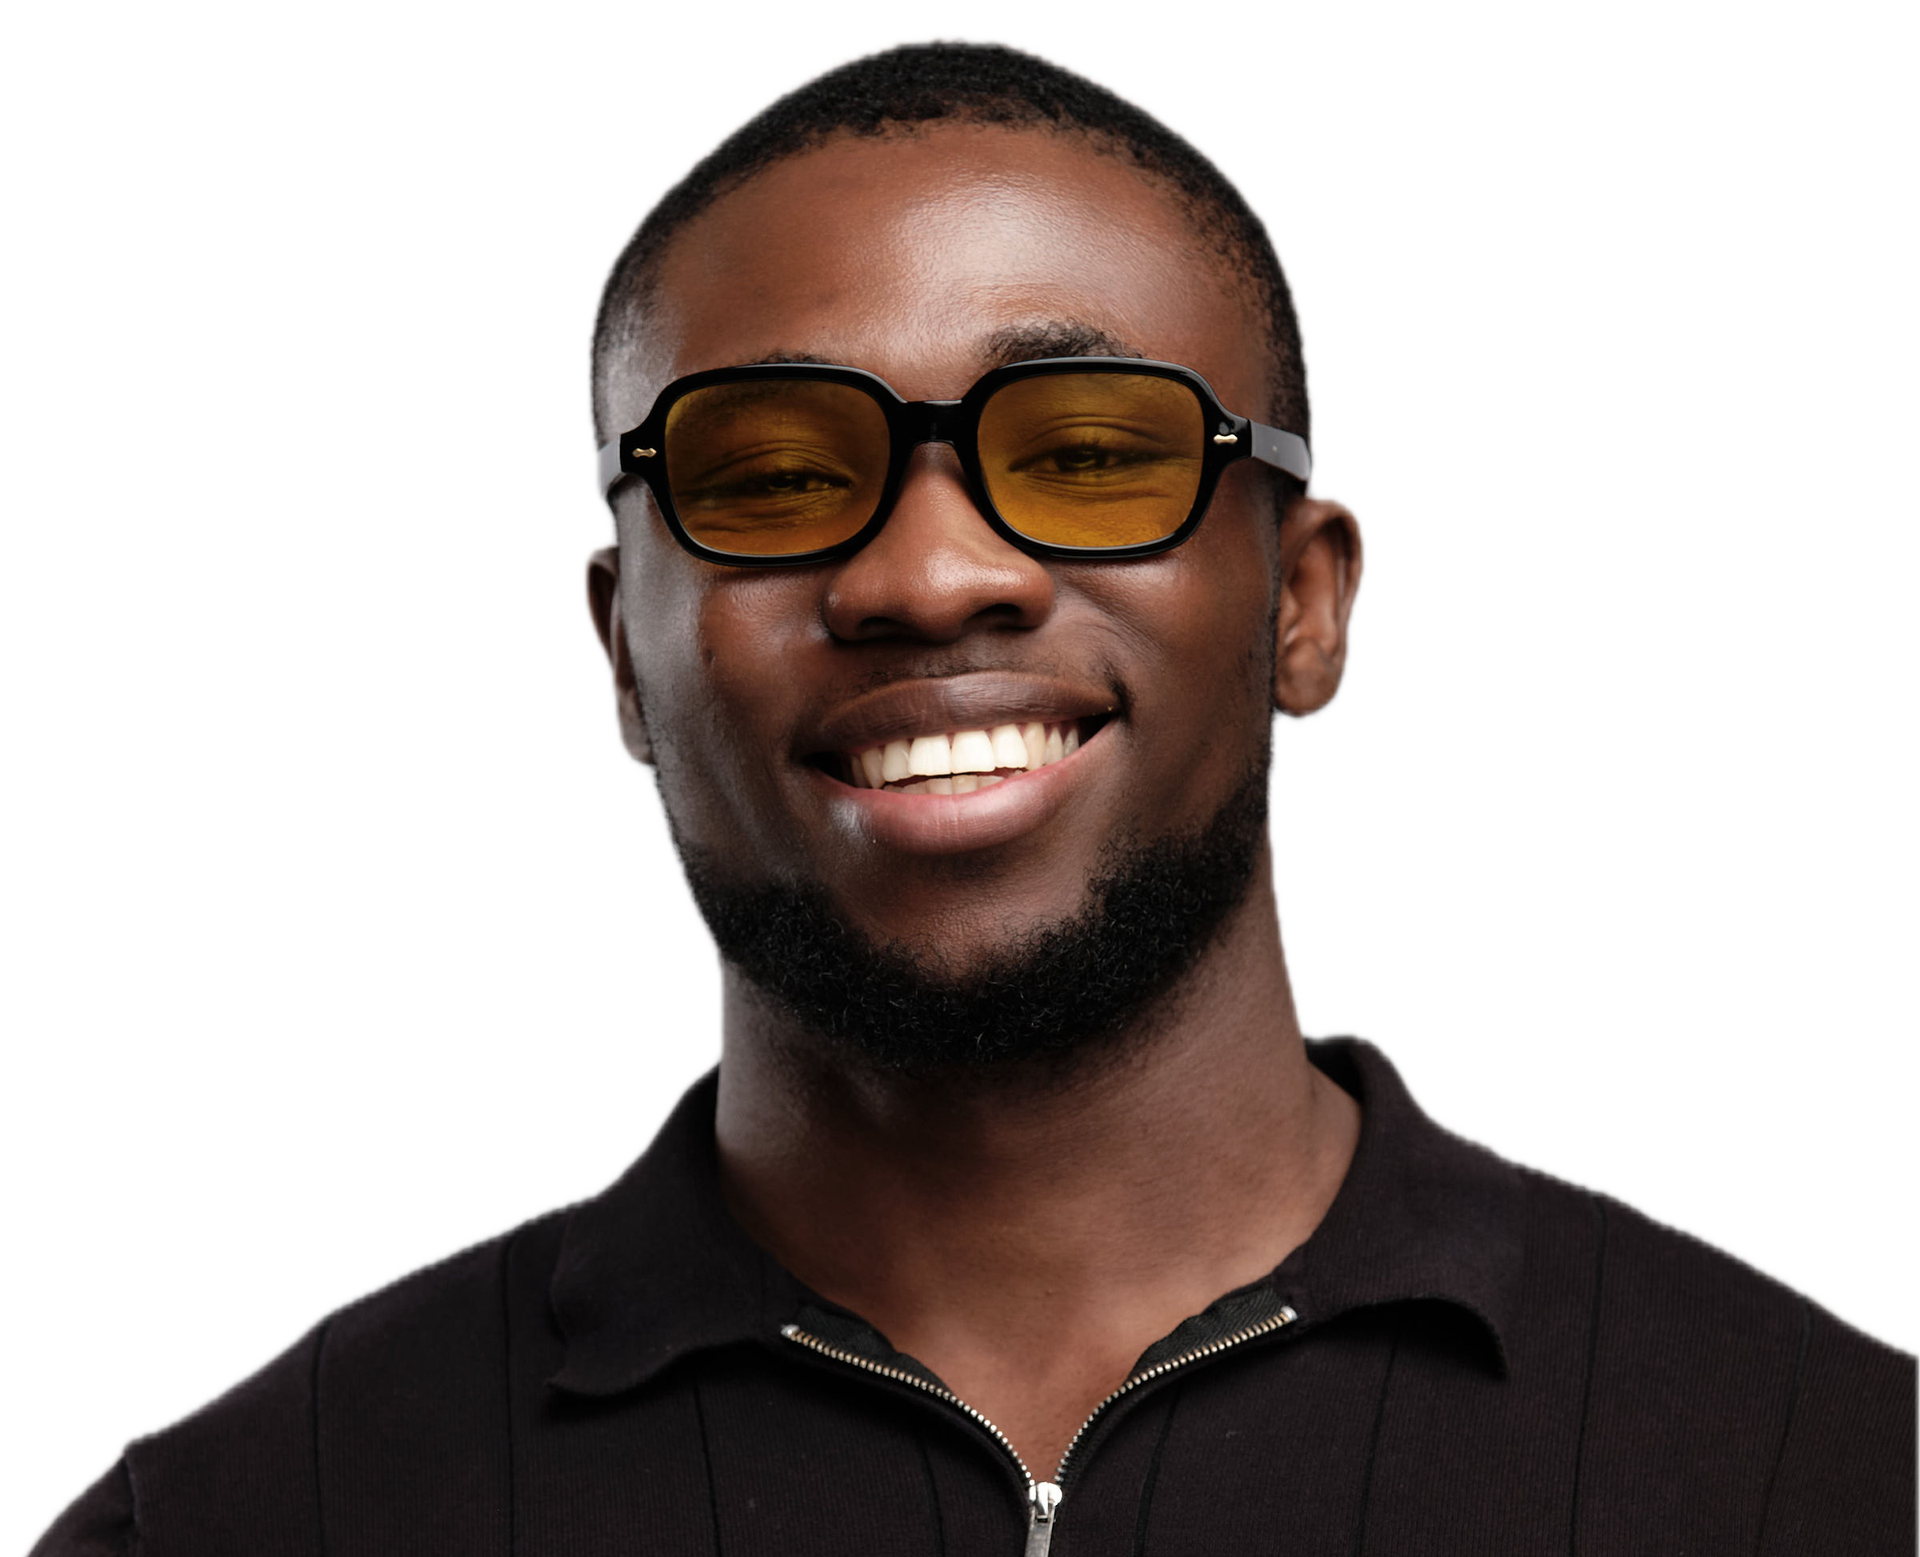
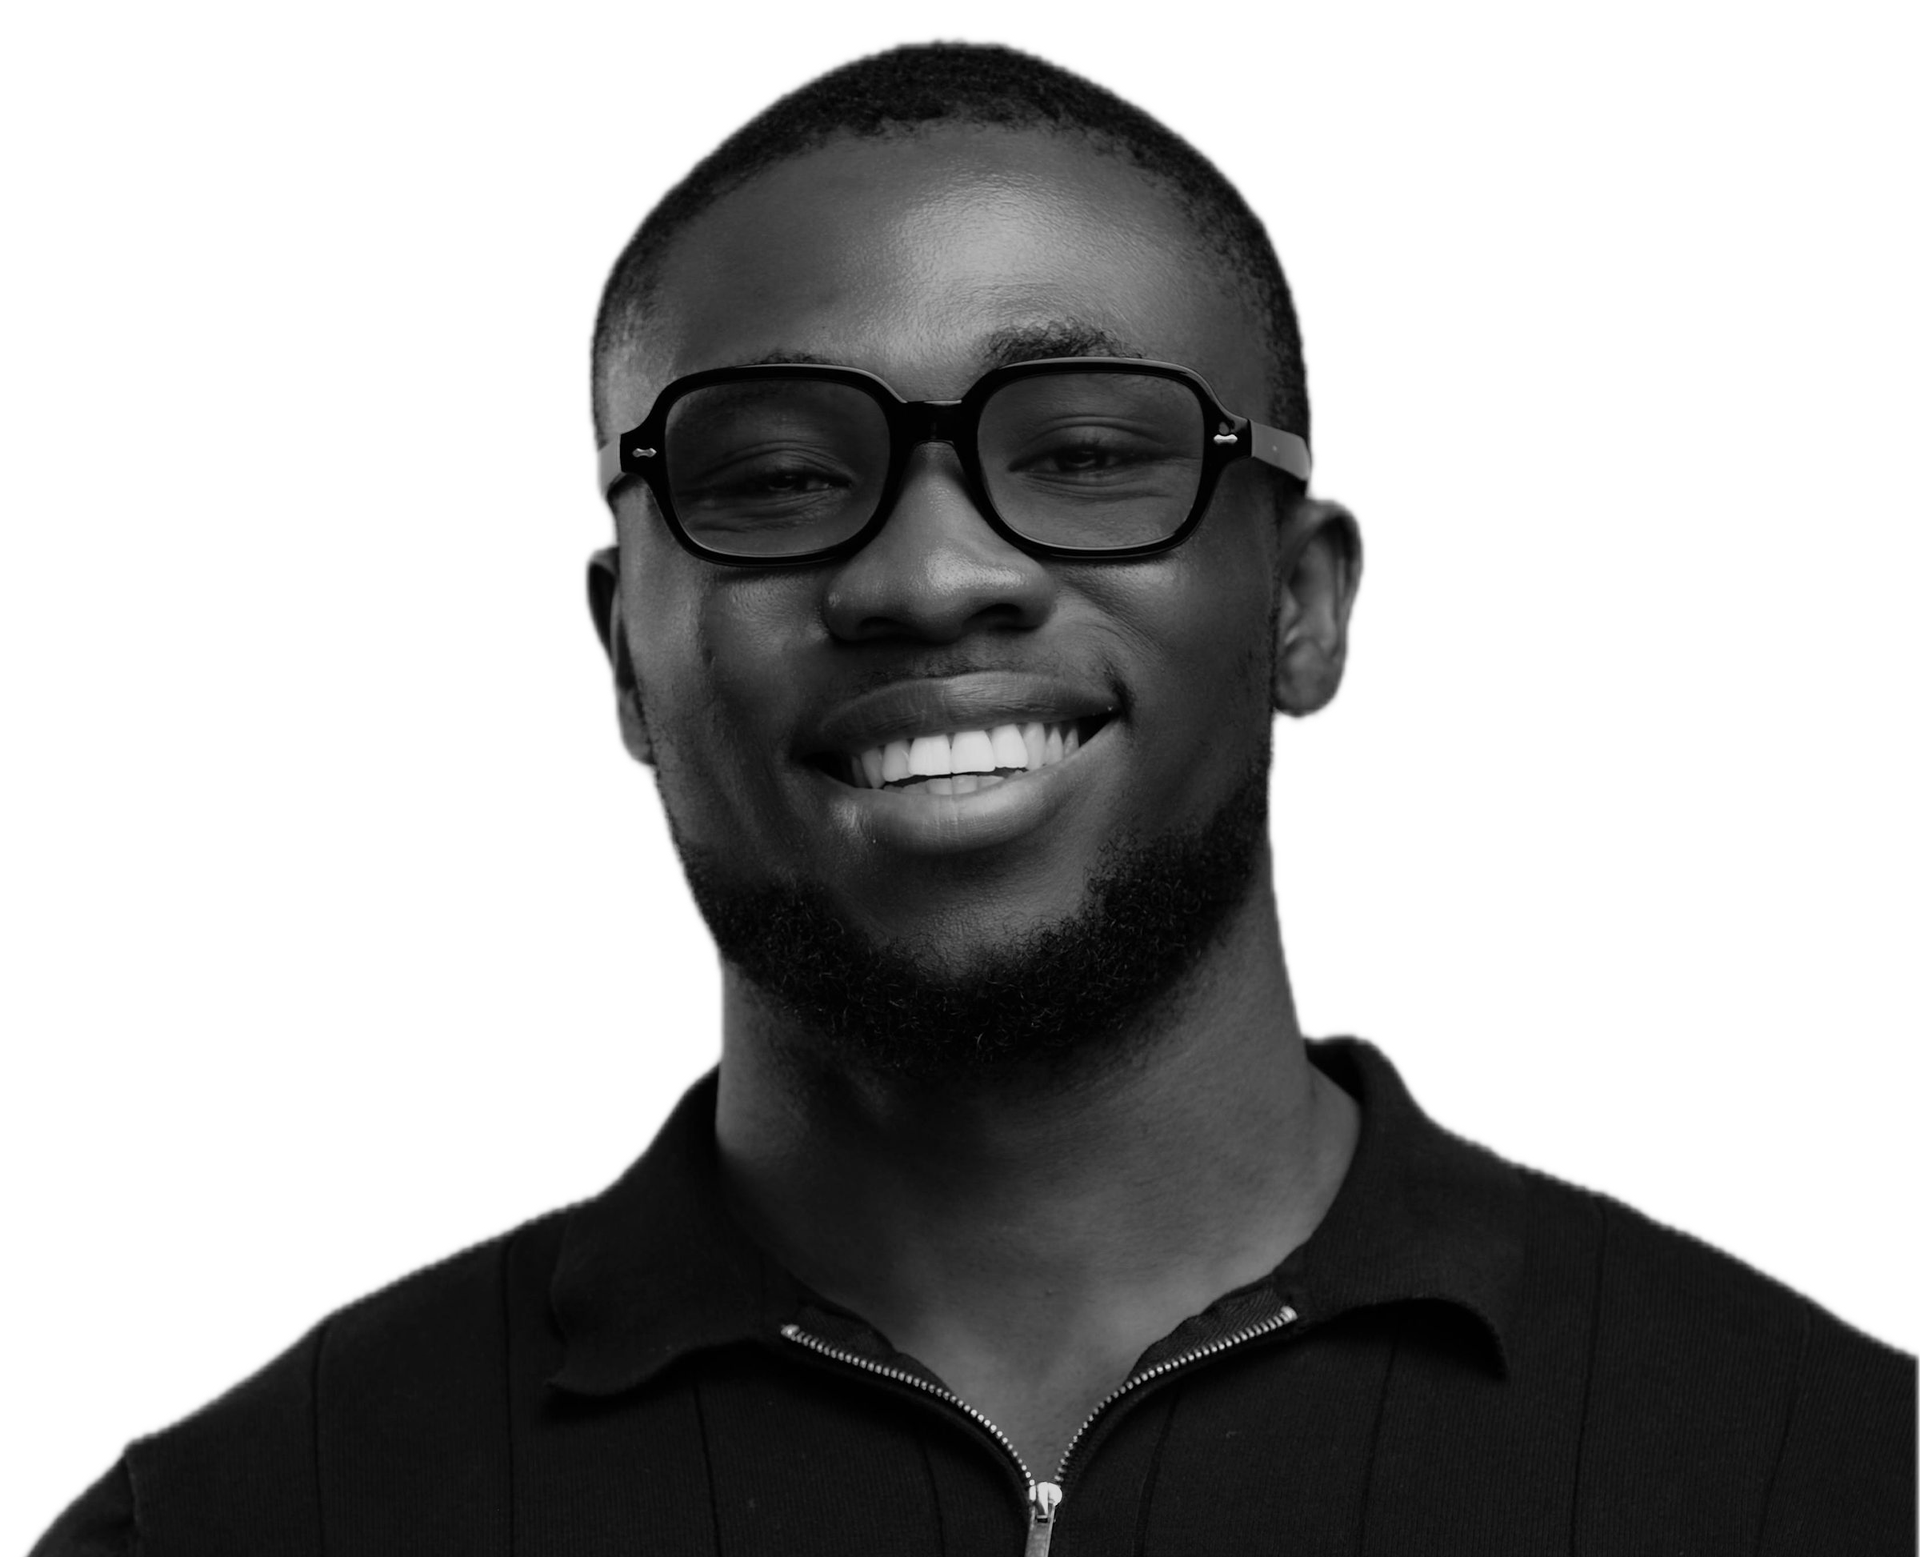
cleanup

Changed region(s): [[0.3125, 0.0617, 0.7188, 0.6474], [0.4375, 0.5549, 0.7188, 1.0], [0.375, 0.6782, 0.4062, 0.7399]]

diff --git a/src/Loader.jsx b/src/Loader.jsx
@@ -3,6 +3,7 @@ import gsap from "gsap";
 import { CustomEase } from "gsap/CustomEase";
 import { useGSAP } from "@gsap/react";
 import headerImg from "./assets/headerImg.svg";
+// Background removed; grayscale + 85% brightness baked in
 import headerImgCutout from "./assets/headerImgCutout.png";
 
 gsap.registerPlugin(useGSAP, CustomEase);
@@ -13,6 +14,14 @@ CustomEase.create(
   "M0,0 C0.2,0.03 0.38,0.12 0.46,0.3 C0.5,0.42 0.5,0.7 0.56,0.8 C0.66,0.93 0.8,0.98 1,1",
 );
 
+// Width of the full-size frame when it first appears (px)
+const FULLSCREEN_START_W = 176;
+
+const backdrop = "bg-[linear-gradient(#aaa,#b4b4b4_40%)]";
+const nameColumn =
+  "flex h-29.75 flex-col justify-between font-['DM-Serif'] text-[38px] leading-none text-white";
+const subText = "sub pb-1 font-['Geist'] text-lg/none font-medium text-[#555]";
+
 function Loader({ onComplete }) {
   const container = useRef(null);
 
@@ -22,6 +31,7 @@ function Loader({ onComplete }) {
 
       gsap
         .timeline({ onComplete })
+        // Intro
         .from(
           ".name",
           {
@@ -32,47 +42,27 @@ function Loader({ onComplete }) {
           },
           0.06,
         )
-        .from(
-          ".sub",
-          { yPercent: 100, duration: 0.37, ease: "power2.out" },
-          0.165,
-        )
+        .from(".sub", { yPercent: 100, duration: 0.37, ease: "power2.out" }, 0.165)
         .from(
           ".line",
-          {
-            scaleX: 0,
-            transformOrigin: "left",
-            duration: 0.8,
-            ease: "power3.out",
-          },
+          { scaleX: 0, transformOrigin: "left", duration: 0.8, ease: "power3.out" },
           0.1,
         )
         .fromTo(
           ".photo",
           { clipPath: "inset(50% 50% 50% 50%)" },
-          {
-            clipPath: "inset(0% 0% 0% 0%)",
-            duration: 0.75,
-            ease: "power3.out",
-          },
+          { clipPath: "inset(0% 0% 0% 0%)", duration: 0.75, ease: "power3.out" },
           0.09,
         )
-        .from(
-          ".photo img",
-          { scale: 0.5, duration: 0.3, ease: "power2.out" },
-          0.09,
-        )
+        .from(".photo img", { scale: 0.5, duration: 0.3, ease: "power2.out" }, 0.09)
         .from(".logo", { scale: 0, duration: 0.5, ease: "sine.out" }, 0.12)
-        .from(
-          ".counter",
-          { x: 100, opacity: 0, duration: 0.3, ease: "power3.out" },
-          0.15,
-        )
+        .from(".counter", { x: 100, opacity: 0, duration: 0.3, ease: "power3.out" }, 0.15)
+        // Full-size photo grows over everything
         .from(".fullscreen", { opacity: 0, duration: 0.11 }, 0.88)
         .from(
           ".fullscreen",
           {
-            scale: (_, el) => 176 / el.offsetWidth,
+            scale: (_, el) => FULLSCREEN_START_W / el.offsetWidth,
             y: -9,
             duration: 0.77,
             ease: "jump",
@@ -80,47 +70,33 @@ function Loader({ onComplete }) {
           0.88,
         )
         .from(".backdrop", { opacity: 0, duration: 0.35 }, 1.25)
-        .to(
-          ".logo",
-          { left: "4.4vw", xPercent: 0, duration: 0.65, ease: "jump" },
-          1.36,
-        );
+        // Logo moves to the corner
+        .to(".logo", { left: "4.4vw", xPercent: 0, duration: 0.65, ease: "jump" }, 1.36);
     },
     { scope: container },
   );
 
   return (
-    <div
-      ref={container}
-      className="fixed inset-0 z-50 overflow-hidden bg-black"
-    >
+    <div ref={container} className="fixed inset-0 z-50 overflow-hidden bg-black">
       <div className="line absolute top-[calc(50%-9px)] h-px w-full bg-[repeating-linear-gradient(to_right,#161616_0_4px,transparent_4px_5px)]" />
 
       <div className="absolute inset-0 grid -translate-y-[9px] grid-cols-[1fr_auto_1fr] items-center max-sm:scale-[0.55]">
-        <div className="flex h-29.75 flex-col items-end justify-between font-['DM-Serif'] text-[38px] leading-none text-white">
+        <div className={`${nameColumn} items-end`}>
           <div className="overflow-hidden pt-1.5">
             <p className="name">EBUKA</p>
           </div>
           <div className="-mb-1.75 overflow-hidden">
-            <p className="sub pb-1 font-['Geist'] text-lg/none font-medium text-[#555]">
-              Nihil Sine Deo
-            </p>
+            <p className={subText}>Nihil Sine Deo</p>
           </div>
         </div>
 
         <div className="photo mx-4.5 h-29.75 w-36.75 overflow-hidden">
-          <img
-            src={headerImg}
-            alt=""
-            className="h-full w-full object-cover object-[50%_17%]"
-          />
+          <img src={headerImg} alt="" className="h-full w-full object-cover object-[50%_17%]" />
         </div>
 
-        <div className="flex h-29.75 flex-col justify-between font-['DM-Serif'] text-[38px] leading-none text-white">
+        <div className={nameColumn}>
           <div className="mt-6.5 overflow-hidden">
-            <p className="sub pb-1 font-['Geist'] text-lg/none font-medium text-[#555]">
-              Senior Digital Marketer
-            </p>
+            <p className={subText}>Senior Digital Marketer</p>
           </div>
           <div className="-mb-1.5 overflow-hidden pt-1.5">
             <p className="name">CHIDUBE</p>
@@ -132,23 +108,21 @@ function Loader({ onComplete }) {
         0%
       </p>
 
-      <div className="backdrop absolute inset-0 bg-[linear-gradient(#aaa,#b4b4b4_40%)]" />
+      <div className={`backdrop absolute inset-0 ${backdrop}`} />
 
       <div className="absolute inset-0 flex items-center justify-center">
-        <div className="fullscreen aspect-176/143 w-[min(100vw,calc(100vh*176/143))] shrink-0 overflow-hidden bg-[linear-gradient(#aaa,#b4b4b4_40%)]">
+        <div
+          className={`fullscreen aspect-176/143 w-[min(100vw,calc(100vh*176/143))] shrink-0 overflow-hidden will-change-transform ${backdrop}`}
+        >
           <img
             src={headerImgCutout}
             alt=""
-            className="h-full w-full origin-top translate-y-15 scale-110 object-cover brightness-[.85] grayscale"
+            className="h-full w-full origin-top translate-y-15 scale-110 object-cover"
           />
         </div>
       </div>
 
-      <img
-        src="/logo.svg"
-        alt="Logo"
-        className="logo absolute top-7.75 left-1/2 h-11 w-10"
-      />
+      <img src="/logo.svg" alt="Logo" className="logo absolute top-7.75 left-1/2 h-11 w-10" />
     </div>
   );
 }
